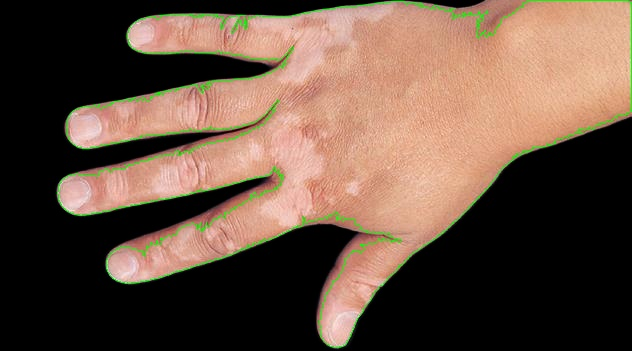
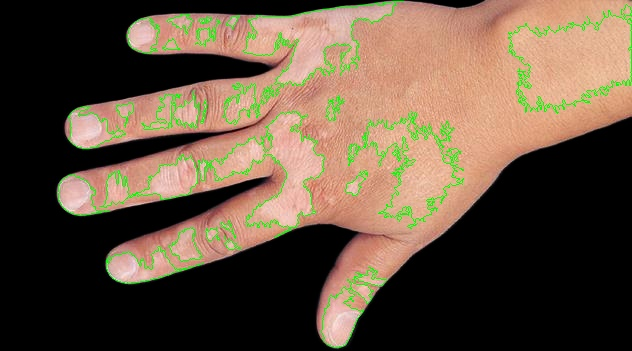
added save

diff --git a/skin_disorder_detection/detect_disorder.py b/skin_disorder_detection/detect_disorder.py
@@ -4,6 +4,8 @@ import cv2
 import os
 from rembg import remove
 import streamlit as st
+from db import INSERT_DATA, insert_data
+from datetime import datetime
 
 # Parse Arguments
 # json_data = json.loads(sys.argv[1])
@@ -16,12 +18,15 @@ img = (
 # *** Segmentation Steps ***#
 
 # 1. Open Image
-def process_image(img):
-    THRESH_VAL = None  # json_data['thresh_val'] if 'thresh_val' in json_data else None
+def process_image(img,bodypart,date):
+    THRESH_VAL = None # json_data['thresh_val'] if 'thresh_val' in json_data else None
+    max=255
     OUT_DIR = "img_results"  # json_data['out_dir'] if 'out_dir' in json_data else 'result'
 
     BG_RM = True
-    image = img[0]
+    #image = img[0]
+    
+    image= img
     # print(image.shape)
     if BG_RM:
         image = remove(image)
@@ -34,8 +39,8 @@ def process_image(img):
 
     # 3. Image: Color: Split Channel
     # 4. Use Blue channel
-    #blue_channel, _, _ = cv2.split(image)
-    blue_channel = cv2.cvtColor(image, cv2.COLOR_BGR2GRAY) 
+    blue_channel, _, _ = cv2.split(image)
+    #blue_channel = cv2.cvtColor(image, cv2.COLOR_BGR2GRAY) 
     # 5. Image: Adjust: Threshold
     gray = cv2.cvtColor(image, cv2.COLOR_BGR2GRAY)
     gray = cv2.GaussianBlur(gray, (5, 5), 0)
@@ -49,14 +54,14 @@ def process_image(img):
     # get threshold ImageJ default algorithm
 
     if not THRESH_VAL:
-        THRESH_VAL, _, _ = get_threshold(bg_removed)
+        min, _, _ = get_threshold(bg_removed)
 
     #getting thresh from frontend slider 
-    # THRESH_VAL = get_thresh(THRESH_VAL)
+    min,max = get_thresh(min)
     # print(THRESH_VAL)
 
     # 6. Apply Threshold
-    ret, thresh_img = cv2.threshold(bg_removed, THRESH_VAL, 255, cv2.THRESH_BINARY)
+    ret, thresh_img = cv2.threshold(bg_removed, min, max, cv2.THRESH_BINARY)
 
     # 7. Analyze: Analyze particle: Overlay (check Display results and summary)
     contours, hierarchy = cv2.findContours(
@@ -83,29 +88,72 @@ def process_image(img):
     # Show Image
     thresh_img = cv2.cvtColor(thresh_img, cv2.COLOR_GRAY2BGR)
     out_path = os.path.join(
-        OUT_DIR, f"{IMAGE_ID}_{THRESH_VAL}_{depigmentation_percentage:.2f}.jpg"
+        OUT_DIR, f"{st.session_state['logged_in_user']}_{bodypart}_{datetime.strftime(date,'%m-%d-%Y')}.jpg"
     )
-    print("SSSSSSSSSSSSSSSSsss")
     
-    cv2.imwrite('img_results/result.jpg', image)
+    #out_dir= f"{usernam}"username date vofypath
+    #cv2.imwrite('img_results/result.jpg', image)
   
     # Create response
     res = {
-        "preprocessed_image": out_path,
-        "depigmentation_percentage": f"{depigmentation_percentage:.2f}%",
+        #"preprocessed_image": out_path,
+        "skin disorder ratio": f"{depigmentation_percentage:.2f}%",
         # "partical_analysis": depigmentation_cnts
     }
 
-    print("img_results/result",res)
+    # print("img_results/result",res)
+   
+
+    show_result(res)
+    show_image(cv2.cvtColor(img,cv2.COLOR_BGRA2RGB),cv2.cvtColor(image, cv2.COLOR_BGRA2RGB))
+    cv2.imwrite(out_path,cv2.cvtColor(image, cv2.COLOR_BGRA2RGB))
+    # insert_data(INSERT_DATA.format(username = st.session_state["logged_in_user"],
+    #             body_part = bodypart,
+    #             date = datetime.strftime(date,'%m-%d-%Y'),
+    #             disorder_percentage= depigmentation_percentage)
+    #              )
+
     return res,image,out_path
-
-# show_result(res)
-# show_image(cv2.cvtColor(input_image,cv2.COLOR_BGRA2RGB),cv2.cvtColor(image, cv2.COLOR_BGRA2RGB))
-# predict_cancer(input_image)
-
-
 
 def show_result(result):
 
     for k,v in result.items():
       st.write(f"{k} : {v}")
+
+
+def get_thresh(thresh_default=25):
+    min, max = st.slider('Please enter threshhold value ', 0, 255, (thresh_default, 255))
+    st.write("Selected min threshold value is", min ,"Selected max threshold value is", max )
+
+    return min,max
+
+def show_result(result):
+
+    for k,v in result.items():
+      st.write(f"{k} : {v}")
+
+def show_image(input_image,result):
+
+        st.header("Processed Image")
+        st.image(result)
+
+    
+        # st.header("Input Image")
+        # st.image(input_image)
+
+def show_radio():
+    choice = st.radio(
+    "Background removal",
+    ('Yes', 'No'))
+
+    if choice == 'Yes':
+        return True
+    else:
+        return True
+   
+# def save (username = st.session_state["logged_in_user"] , bodypart , date,depigmentation_percentage):
+#      insert_data(INSERT_DATA.format(username = st.session_state["logged_in_user"],
+#                 body_part = bodypart,
+#                 date = datetime.strftime(date,'%m-%d-%Y'),
+#                 disorder_percentage= depigmentation_percentage)
+#                  )

diff --git a/pages/2_🖊_Enter_New_Record.py b/pages/2_🖊_Enter_New_Record.py
@@ -5,7 +5,7 @@ from skin_disorder_detection.detect_disorder import process_image
 import cv2
 import numpy as np
 
-st.set_page_config(page_title="Enter New Record", page_icon="🖊")
+#st.set_page_config(page_title="Enter New Record", page_icon="🖊")
 
 def load_image(image_file):
 	img = Image.open(image_file)
@@ -15,6 +15,19 @@ def show_image(RESULTS_DIR = 'img_results/result.jpg'):
             
             st.header("Processed Image")
             st.image(RESULTS_DIR)
+
+# def get_thresh(img,thresh_default=25):
+    
+#     thresh = st.slider('Please enter threshhold value ', 0, 255, thresh_default)
+#     st.write("Selected threshold value is", thresh)
+#     update_image(img,thresh)
+    
+# def update_image(img,thresh=25):
+    
+#     res,image,out_path = process_image(img,thresh)
+    
+#     show_result(res)
+#     show_image(image)
 
 
 if "logged_in_user" in st.session_state:
@@ -29,7 +42,8 @@ if "logged_in_user" in st.session_state:
     if image_file is not None:
         file_bytes = np.asarray(bytearray(image_file.read()), dtype=np.uint8)
         image = cv2.imdecode(file_bytes, cv2.IMREAD_COLOR)
-        st.button(label = 'save', help='press to generate results for the Image', on_click =process_image,args=((image,),))
+        process_image(image,body_part,date)
+        #st.button(label = 'save', help='press to generate results for the Image', on_click =save,args=((image,body_part,date),))
         
         
     if image_file is not None:
@@ -40,21 +54,9 @@ if "logged_in_user" in st.session_state:
        # st.write(file_details)
 
         # To View Uploaded Image
-        st.image(load_image(image_file),width=250)
+     
 
-        
-        
-        thresh = st.slider('Please enter threshhold value ', 0, 255, 25)
-        st.write("Selected threshold value is", thresh)
-        show_image()
-        
+
 else:
     st.header("Please Login!")
 
-
-
-def get_thresh(thresh_default=25):
-    thresh = st.slider('Please enter threshhold value ', 0, 255, thresh_default)
-    st.write("Selected threshold value is", thresh)
-
-    return thresh

diff --git a/db/db.py b/db/db.py
@@ -30,3 +30,8 @@ conn = get_connection(URI_SQLITE_DB)
 
 def get_data(query, conn: Connection = get_connection(URI_SQLITE_DB)):
     return pd.read_sql(query, con=conn)
+
+def insert_data(query, conn: Connection = get_connection(URI_SQLITE_DB)):
+    conn.execute(query)
+    conn.commit()
+    return True

diff --git a/db/__init__.py b/db/__init__.py
@@ -1,2 +1,2 @@
-from .db import get_data, init_db, populate_db, get_connection
-from .queries import GET_GRAPH_DATA, GET_SPECIFIC_ENTRY, INSERT_DATA
+from .db import get_data, init_db, populate_db, get_connection ,insert_data
+from .queries import GET_GRAPH_DATA, GET_SPECIFIC_ENTRY, INSERT_DATA 
